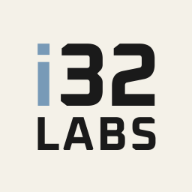
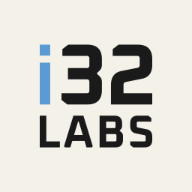
dark and light theme

diff --git a/index.html b/index.html
@@ -6,10 +6,15 @@
     <title>i32 Labs</title>
     <meta name="description" content="i32 Labs is a software development company based in New Zealand.">
     
+    <link rel="apple-touch-icon" sizes="180x180" href="img/apple-touch-icon.png">
+    <link rel="icon" type="image/png" sizes="32x32" href="img/favicon-32x32.png">
+    <link rel="icon" type="image/png" sizes="16x16" href="img/favicon-16x16.png">
     <link rel="icon" type="image/x-icon" href="img/favicon.ico">
+    
     <link rel="preconnect" href="https://fonts.googleapis.com">
     <link rel="preconnect" href="https://fonts.gstatic.com" crossorigin>
     <link href="https://fonts.googleapis.com/css2?family=Oxanium:wght@200..800&display=swap" rel="stylesheet">
+    
     <link rel="stylesheet" href="style.css" />
     <link rel="manifest" href="site.webmanifest" />
     
@@ -20,22 +25,20 @@
     <meta name="twitter:title" content="i32 Labs">
     <meta name="twitter:description" content="i32 Labs is a software development company based in New Zealand.">
     <meta name="twitter:card" content="summary">
+    
+    <meta
+      name="theme-color"
+      content="#f4f1e8"
+      media="(prefers-color-scheme: light)" />
+    
+    <meta
+      name="theme-color"
+      content="#1a1a1a"
+      media="(prefers-color-scheme: dark)" />
 </head>
 <body>
     <div id="logo-holder">
-      <svg width="512" height="512" viewBox="0 0 512 512" fill="none" xmlns="http://www.w3.org/2000/svg">
-        <g clip-path="url(#clip0_1_62)">
-        <path d="M512 0H0V512H512V0Z" fill="#F4F1E8"/>
-        <path d="M100.327 146.208V116.4H132.123V146.208H100.327ZM100.99 282V165.418H131.46V282H100.99Z" fill="#789AB7"/>
-        <path d="M162.288 269.52V250.8H231.888C236.688 250.8 239.088 248.4 239.088 243.6V219.6C239.088 214.8 236.688 212.4 231.888 212.4H180.048V181.2H231.888C236.688 181.2 239.088 178.8 239.088 174V154.8C239.088 150 236.688 147.6 231.888 147.6H164.688V128.88L180.768 116.4H233.328C260.208 116.4 273.648 129.84 273.648 156.72V172.08C273.648 178.48 271.648 183.68 267.648 187.68L259.248 196.08L267.648 204.48C271.648 208.48 273.648 213.68 273.648 220.08V241.68C273.648 268.56 260.208 282 233.328 282H178.368L162.288 269.52ZM298.638 282V228C298.638 206.08 308.238 193.2 327.438 189.36L371.838 180.48C375.838 179.68 377.838 177.04 377.838 172.56V154.8C377.838 150 375.438 147.6 370.638 147.6H303.438V128.88L319.518 116.4H372.078C398.958 116.4 412.398 129.84 412.398 156.72V172.32C412.398 194.24 402.798 207.12 383.598 210.96L339.198 219.84C335.198 220.64 333.198 223.28 333.198 227.76V250.8H412.398V282H298.638Z" fill="#1A1A1A"/>
-        <path d="M101.054 400V312.37H119.342V383.49H157.188V400H101.054ZM168.853 396.571L194.888 312.37H222.828L248.863 396.571L246.577 400H231.337L226.003 382.22H191.713L186.379 400H171.139L168.853 396.571ZM196.666 365.71H221.05L209.874 328.88H207.842L196.666 365.71ZM267.915 400V312.37H309.317C323.541 312.37 330.653 319.482 330.653 333.706V341.326C330.653 344.205 329.806 346.66 328.113 348.692L323.668 354.026L329.002 358.471C331.796 360.757 333.193 364.144 333.193 368.631V378.664C333.193 392.888 326.081 400 311.857 400H267.915ZM286.203 383.49H311.095C313.635 383.49 314.905 382.22 314.905 379.68V366.98C314.905 364.44 313.635 363.17 311.095 363.17H286.203V383.49ZM286.203 346.66H308.555C311.095 346.66 312.365 345.39 312.365 342.85V332.69C312.365 330.15 311.095 328.88 308.555 328.88H286.203V346.66ZM353.302 393.396V383.49H392.672C395.212 383.49 396.482 382.22 396.482 379.68V370.536C396.482 368.081 395.424 366.684 393.307 366.345L368.542 361.265C358.382 359.233 353.302 352.417 353.302 340.818V333.706C353.302 319.482 360.414 312.37 374.638 312.37H403.721L412.23 318.974V328.88H375.4C372.86 328.88 371.59 330.15 371.59 332.69V340.945C371.59 343.316 372.649 344.713 374.765 345.136L399.53 350.089C409.69 352.121 414.77 358.937 414.77 370.536V378.664C414.77 392.888 407.658 400 393.434 400H361.811L353.302 393.396Z" fill="#1A1A1A"/>
-        </g>
-        <defs>
-        <clipPath id="clip0_1_62">
-        <rect width="512" height="512" fill="white"/>
-        </clipPath>
-        </defs>
-      </svg>
+      <svg width="512" height="512" viewBox="0 0 512 512" fill="none" xmlns="http://www.w3.org/2000/svg"><g clip-path="url(#a)"><path d="M512 0H0v512h512z" fill="var(--icon-background)"/><path d="M106 148.327V119h27.885v29.327zm0 130.288V167.077h27.885v111.538z" fill="#5b9bd5"/><path d="M164.023 266.586v-18.043h67.337q6.965 0 6.965-6.94V218.47q0-6.939-6.965-6.939h-50.155v-30.073h50.155q6.965 0 6.965-6.94v-18.506q0-6.94-6.965-6.94h-65.015v-18.043L181.902 119h50.851q39.009 0 39.009 38.863v14.805q0 9.253-5.805 15.036l-8.127 8.096 8.127 8.097q5.805 5.782 5.805 15.036v20.82q0 38.862-39.009 38.862H179.58zm131.916 12.029v-52.048q0-31.691 27.864-37.244l42.956-8.559q5.805-1.156 5.805-7.634v-17.118q0-6.94-6.966-6.94h-65.015v-18.043L316.14 119h50.851Q406 119 406 157.863v15.036q0 31.691-27.864 37.244l-42.956 8.559q-5.805 1.156-5.805 7.634v22.207H406v30.072zM106 393.038v-84.615h17.488v68.673h36.192v15.942zm64.835-3.311 24.896-81.304h26.719l24.896 81.304-2.186 3.311h-14.573l-5.101-17.168h-32.791l-5.101 17.168h-14.573zm26.597-29.799h23.318l-10.688-35.563h-1.943zm68.133 33.11v-84.615h39.592q20.403 0 20.403 20.602v7.358q0 4.17-2.429 7.113l-4.25 5.15 5.1 4.292q4.008 3.312 4.008 9.811v9.687q0 20.602-20.403 20.602zm17.489-15.942h23.803q3.644 0 3.644-3.678v-12.264q0-3.678-3.644-3.679h-23.803zm0-35.563h21.374q3.644 0 3.644-3.678v-9.811q0-3.68-3.644-3.679h-21.374zm64.166 45.129v-9.566h37.648q3.644 0 3.644-3.678v-8.83q0-3.556-3.037-4.047l-23.682-4.905q-14.573-2.943-14.573-19.744v-6.867q0-20.602 20.403-20.602h27.811l8.137 6.377v9.565h-35.22q-3.643 0-3.643 3.679v7.971q0 3.433 3.036 4.047l23.682 4.783Q406 347.788 406 364.588v7.848q0 20.602-20.403 20.602h-30.24z" fill="var(--icon-foreground)"/></g><defs><clipPath id="a"><path fill="#fff" d="M0 0h512v512H0z"/></clipPath></defs></svg>
     </div>
     <footer>
         <p><a href="mailto:contact@i32labs.co.nz">contact@i32labs.co.nz</a></p>

diff --git a/style.css b/style.css
@@ -45,9 +45,22 @@ h1, h2, h3, h4, h5, h6 {
   isolation: isolate;
 }
 
+body {
+  --icon-background: #f4f1e8;
+  --icon-foreground: #1a1a1a;
+}
+
+@media (prefers-color-scheme: dark) {
+  body {
+    --icon-background: #1a1a1a;
+    --icon-foreground: #f4f1e8;
+  }
+}
+
 body,
 html {
-  background-color: #f4f1e8;
+  background-color: var(--icon-background);
+  color: var(--icon-foreground);
   height: 100%;
 }
 
@@ -90,7 +103,7 @@ footer {
 }
 
 footer a {
-  color: #789AB7;
+  color: #5B9BD5;
 }
 
 footer p {
